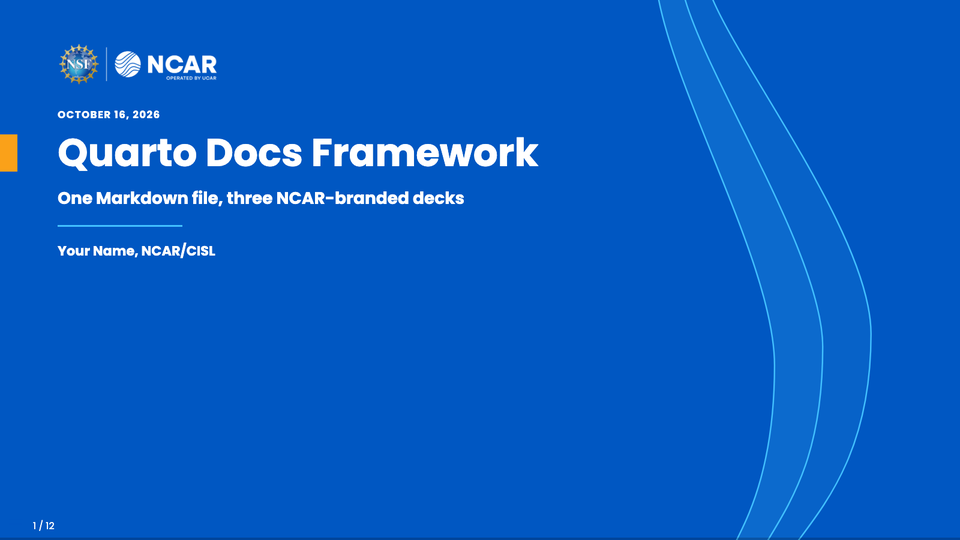
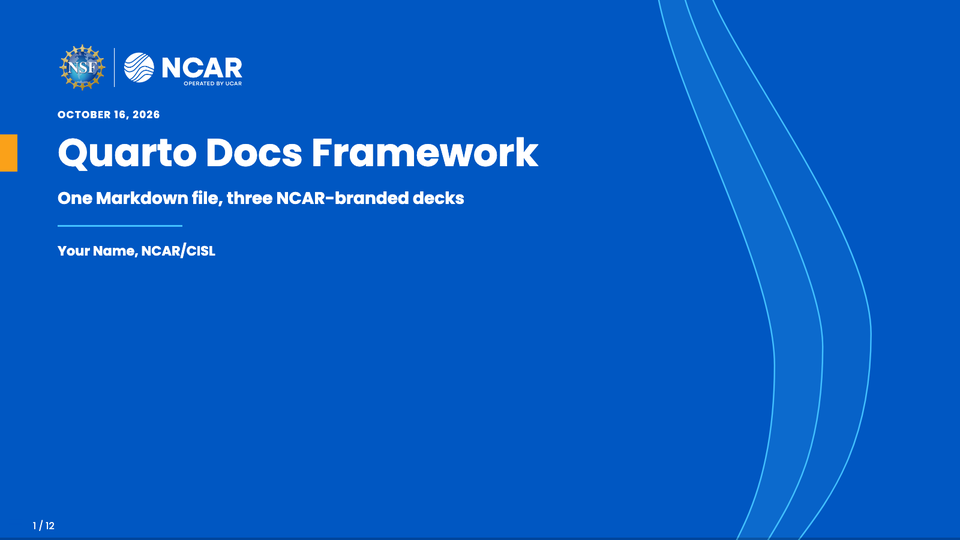
The vendored engine takes its geometry from the livery; so do the pptx scripts (#8)

Changed region(s): [[0.0625, 0.0889, 0.25, 0.1778]]

diff --git a/docs/common/_extensions/benkirk/engine/engine-revealjs.scss b/docs/common/_extensions/benkirk/engine/engine-revealjs.scss
@@ -77,14 +77,10 @@ $mermaid-label-fg-color: $ncar-blue;
 
 /*-- scss:rules --*/
 
-// slide geometry (beamerouterthemeEngine.sty: margins 0.06 W, tab 0.018 W,
-// logo 0.06 H tall at 0.055 H from the top)
-$engine-margin: 96px;
-$engine-tab: 29px;
-$engine-logo-top: 48px;
-// the logo's box (--engine-logo-w/h, --engine-logo-aspect) and the brand roles
-// (--engine-primary, -primary-text, -primary-contrast, -secondary, -accent, ...) are
-// :root custom properties in the livery's build/livery.css (engine-revealjs.lua attaches it)
+// slide geometry: the livery's fractions as slide pixels in its build/livery.css
+// (--engine-margin, -tab, -logo-top, -logo-h/-w/-aspect, -logo-title-h/-section-h/
+// -closing-h, -divider-top/-bottom, -full-pad/-floor/-caption), beside the brand
+// roles (--engine-primary, ...); engine-revealjs.lua attaches it
 
 // ---------------------------------------------------------------------------
 // every slide: a 1600x900 box with the brand margins
@@ -96,7 +92,7 @@ $engine-logo-top: 48px;
   height: 100%;
   box-sizing: border-box;
   isolation: isolate;  // keeps the z-index:-1 waves above the slide background in print
-  padding: 150px $engine-margin 70px;
+  padding: 150px var(--engine-margin) 70px;
 }
 
 // the logo: top right on content slides (NSF NCAR full color; the images
@@ -105,8 +101,8 @@ $engine-logo-top: 48px;
 .reveal .slides section.engine-title::after {
   content: "";
   position: absolute;
-  top: $engine-logo-top;
-  right: $engine-margin;
+  top: var(--engine-logo-top);
+  right: var(--engine-margin);
   width: var(--engine-logo-w);
   height: var(--engine-logo-h);
   background-repeat: no-repeat;
@@ -123,8 +119,8 @@ $engine-logo-top: 48px;
 .reveal .slides section.slide.level2 > h2 {
   position: absolute;
   top: 44px;
-  left: $engine-margin;
-  right: calc(#{$engine-margin + 40px} + var(--engine-logo-w));
+  left: var(--engine-margin);
+  right: calc(var(--engine-margin) + 40px + var(--engine-logo-w));
   min-height: 70px;
   margin: 0;
   display: flex;
@@ -135,10 +131,10 @@ $engine-logo-top: 48px;
   &::before {
     content: "";
     position: absolute;
-    left: -$engine-margin;
+    left: calc(-1 * var(--engine-margin));
     top: 0;
     bottom: 0;
-    width: $engine-tab;
+    width: var(--engine-tab);
     background: var(--engine-accent);
   }
 }
@@ -147,8 +143,8 @@ $engine-logo-top: 48px;
   content: "";
   position: absolute;
   top: 130px;
-  left: $engine-margin;
-  right: $engine-margin;
+  left: var(--engine-margin);
+  right: var(--engine-margin);
   height: 1px;
   background: var(--engine-rule);
 }
@@ -313,7 +309,7 @@ $engine-logo-top: 48px;
 // the body shrinks above them rather than running underneath.
 .reveal .slides section .engine-footnotes {
   position: absolute;
-  left: $engine-margin;
+  left: var(--engine-margin);
   bottom: 70px;
   max-width: 60%;
   padding-top: 0.55em;
@@ -373,8 +369,8 @@ $engine-logo-top: 48px;
 }
 div.reveal div.slides section.engine-title.quarto-title-block {
   text-align: left;
-  padding: 180px $engine-margin 60px;
-  &::after { left: $engine-margin; right: auto; top: 72px; height: 70px; width: calc(70px * var(--engine-logo-aspect)); background-position: left top; }
+  padding: 180px var(--engine-margin) 60px;
+  &::after { left: var(--engine-margin); right: auto; top: 72px; height: var(--engine-logo-title-h); width: calc(var(--engine-logo-title-h) * var(--engine-logo-aspect)); background-position: left top; }
   .engine-title-text { max-width: 58%; }
   &.engine-title-photo .engine-title-text { max-width: 44%; }
   .date {
@@ -393,10 +389,10 @@ div.reveal div.slides section.engine-title.quarto-title-block {
     &::before {
       content: "";
       position: absolute;
-      left: -$engine-margin;
+      left: calc(-1 * var(--engine-margin));
       top: 0.08em;
       bottom: 0.08em;
-      width: $engine-tab;
+      width: var(--engine-tab);
       background: var(--engine-accent);
     }
   }
@@ -416,7 +412,7 @@ div.reveal div.slides section.engine-title.quarto-title-block {
   .institute { margin: 0; font-size: 0.7em; }
   .engine-fineprint {
     position: absolute;
-    left: $engine-margin;
+    left: var(--engine-margin);
     bottom: 36px;
     max-width: 50%;
     font-size: 0.4em;
@@ -437,9 +433,9 @@ div.reveal div.slides section.engine-title.quarto-title-block {
   display: flex !important;
   flex-direction: column;
   justify-content: center;
-  padding: 120px $engine-margin 80px;
+  padding: var(--engine-divider-top) var(--engine-margin) var(--engine-divider-bottom);
   text-align: left;
-  &::after { left: $engine-margin; right: auto; top: 72px; background-position: left top; }
+  &::after { left: var(--engine-margin); right: auto; top: 72px; height: var(--engine-logo-section-h); width: calc(var(--engine-logo-section-h) * var(--engine-logo-aspect)); background-position: left top; }
   &[data-engine-section]::before {
     content: "Section " attr(data-engine-section);
     display: block;
@@ -461,10 +457,10 @@ div.reveal div.slides section.engine-title.quarto-title-block {
     &::before {
       content: "";
       position: absolute;
-      left: -$engine-margin;
+      left: calc(-1 * var(--engine-margin));
       top: 0.08em;
       bottom: 0.08em;
-      width: $engine-tab;
+      width: var(--engine-tab);
       background: var(--engine-accent);
     }
   }
@@ -485,8 +481,8 @@ div.reveal div.slides section.engine-title.quarto-title-block {
   display: flex !important;
   flex-direction: column;
   justify-content: center;
-  padding: 150px $engine-margin 80px;
-  &::after { left: $engine-margin; right: auto; top: 81px; background-position: left top; }
+  padding: 150px var(--engine-margin) 80px;
+  &::after { left: var(--engine-margin); right: auto; top: 81px; height: var(--engine-logo-closing-h); width: calc(var(--engine-logo-closing-h) * var(--engine-logo-aspect)); background-position: left top; }
   > h2 {
     position: relative;
     top: auto; left: auto; right: auto;
@@ -515,7 +511,7 @@ div.reveal div.slides section.engine-title.quarto-title-block {
   right: 0;
   box-sizing: border-box;
   min-height: 180px;
-  padding: 0 $engine-margin;
+  padding: 0 var(--engine-margin);
   background: var(--engine-overlay);
   color: #fff;
   &::before { content: none; }
@@ -570,8 +566,6 @@ html.engine-title-light .reveal .slides section.slide.level2.closing {
 // ---------------------------------------------------------------------------
 // Absolutely placed, so reveal's inline display and the print padding cannot
 // move it; the title stays in the page (navigation, tools), clipped to nothing.
-$engine-full-pad: 40px;
-$engine-full-caption: 56px;
 .reveal .slides section.slide.level2.full {
   &::before, &::after { content: none; }  // no rule, no logo
   > h2 {
@@ -588,13 +582,13 @@ $engine-full-caption: 56px;
 }
 .reveal .slides section.slide.full .engine-full-figure {
   position: absolute;
-  inset: $engine-full-pad $engine-full-pad ($engine-full-pad + 8px);
+  inset: var(--engine-full-pad) var(--engine-full-pad) calc(var(--engine-full-pad) + 8px);
   display: flex;
   align-items: center;
   justify-content: center;
 }
 .reveal .slides section.slide.full.engine-captioned .engine-full-figure {
-  bottom: $engine-full-pad + $engine-full-caption;
+  bottom: calc(var(--engine-full-pad) + var(--engine-full-caption));
 }
 // every wrapper Quarto puts round a figure hands the box down to it; the
 // empty paragraphs it leaves beside one would take a share of the width
@@ -619,10 +613,10 @@ $engine-full-caption: 56px;
 }
 .reveal .slides section.slide.full .engine-full-caption {
   position: absolute;
-  left: $engine-full-pad;
-  right: $engine-full-pad;
-  bottom: $engine-full-pad;
-  height: $engine-full-caption;
+  left: var(--engine-full-pad);
+  right: var(--engine-full-pad);
+  bottom: var(--engine-full-pad);
+  height: var(--engine-full-caption);
   display: flex;
   flex-direction: column;
   justify-content: center;
@@ -661,10 +655,10 @@ $engine-full-caption: 56px;
 // reveal's print stylesheet zeroes every section's padding (!important);
 // restate each slide type's (more specific, so these win)
 html.reveal-print .reveal .slides {
-  section.slide, section.engine-title { padding: 150px $engine-margin 70px !important; }
-  section.engine-title.quarto-title-block { padding: 180px $engine-margin 60px !important; }
-  section.slide.engine-section { padding: 120px $engine-margin 80px !important; }
-  section.slide.level2.closing { padding: 150px $engine-margin 80px !important; }
+  section.slide, section.engine-title { padding: 150px var(--engine-margin) 70px !important; }
+  section.engine-title.quarto-title-block { padding: 180px var(--engine-margin) 60px !important; }
+  section.slide.engine-section { padding: var(--engine-divider-top) var(--engine-margin) var(--engine-divider-bottom) !important; }
+  section.slide.level2.closing { padding: 150px var(--engine-margin) 80px !important; }
   section.slide.level2.feature { padding-top: 230px !important; }
   // full-height slides: no vertical centering offset
   section.slide, section.engine-title { top: 0 !important; }

diff --git a/docs/common/_extensions/benkirk/engine/liveries/ucar/build/livery.css b/docs/common/_extensions/benkirk/engine/liveries/ucar/build/livery.css
@@ -27,6 +27,17 @@
   --engine-logo-h: 46.4px;
   --engine-logo-w: 182.3px;
   --engine-logo-aspect: 3.928;
+  --engine-logo-top: 48px;
+  --engine-logo-title-h: 81px;
+  --engine-logo-section-h: 72px;
+  --engine-logo-closing-h: 90px;
+  --engine-margin: 96px;
+  --engine-tab: 28.8px;
+  --engine-divider-top: 120px;
+  --engine-divider-bottom: 80px;
+  --engine-full-pad: 40px;
+  --engine-full-floor: 67.5px;
+  --engine-full-caption: 54px;
   --engine-divider-label: #011837;
   --engine-font-family: "Poppins";
   --engine-overlay: color-mix(in srgb, var(--engine-dark) 72%, transparent);

diff --git a/docs/common/_extensions/benkirk/engine/liveries/ucp/build/livery.css b/docs/common/_extensions/benkirk/engine/liveries/ucp/build/livery.css
@@ -27,6 +27,17 @@
   --engine-logo-h: 58px;
   --engine-logo-w: 159.3px;
   --engine-logo-aspect: 2.746;
+  --engine-logo-top: 48px;
+  --engine-logo-title-h: 81px;
+  --engine-logo-section-h: 72px;
+  --engine-logo-closing-h: 90px;
+  --engine-margin: 96px;
+  --engine-tab: 28.8px;
+  --engine-divider-top: 120px;
+  --engine-divider-bottom: 80px;
+  --engine-full-pad: 40px;
+  --engine-full-floor: 67.5px;
+  --engine-full-caption: 54px;
   --engine-divider-label: #011837;
   --engine-font-family: "Poppins";
   --engine-overlay: color-mix(in srgb, var(--engine-dark) 72%, transparent);

diff --git a/docs/common/_extensions/benkirk/engine/liveries/ncar/build/livery.css b/docs/common/_extensions/benkirk/engine/liveries/ncar/build/livery.css
@@ -27,6 +27,17 @@
   --engine-logo-h: 58px;
   --engine-logo-w: 228.2px;
   --engine-logo-aspect: 3.934;
+  --engine-logo-top: 48px;
+  --engine-logo-title-h: 81px;
+  --engine-logo-section-h: 72px;
+  --engine-logo-closing-h: 90px;
+  --engine-margin: 96px;
+  --engine-tab: 28.8px;
+  --engine-divider-top: 120px;
+  --engine-divider-bottom: 80px;
+  --engine-full-pad: 40px;
+  --engine-full-floor: 67.5px;
+  --engine-full-caption: 54px;
   --engine-font-family: "Poppins";
   --engine-overlay: color-mix(in srgb, var(--engine-dark) 72%, transparent);
 }

diff --git a/docs/common/_extensions/benkirk/engine/liveries/ncarucar/build/livery.css b/docs/common/_extensions/benkirk/engine/liveries/ncarucar/build/livery.css
@@ -27,6 +27,17 @@
   --engine-logo-h: 58px;
   --engine-logo-w: 228.2px;
   --engine-logo-aspect: 3.934;
+  --engine-logo-top: 48px;
+  --engine-logo-title-h: 81px;
+  --engine-logo-section-h: 72px;
+  --engine-logo-closing-h: 90px;
+  --engine-margin: 96px;
+  --engine-tab: 28.8px;
+  --engine-divider-top: 120px;
+  --engine-divider-bottom: 80px;
+  --engine-full-pad: 40px;
+  --engine-full-floor: 67.5px;
+  --engine-full-caption: 54px;
   --engine-font-family: "Poppins";
   --engine-overlay: color-mix(in srgb, var(--engine-dark) 72%, transparent);
 }

diff --git a/docs/common/_extensions/benkirk/engine/livery_build.py b/docs/common/_extensions/benkirk/engine/livery_build.py
@@ -197,14 +197,25 @@ def emit_css(livery: dict) -> str:
                  f'src: url("{Path(f["path"]).name}") format("truetype"); }}')
     props = [f"--engine-{k}: {v};" for k, v in livery["roles"].items()]
     props += [f"--engine-{k}: {v};" for k, v in livery["derived"].items()]
-    logo = livery.get("geometry", {}).get("logo", {})
+    geom = livery.get("geometry", {})
+    logo = geom.get("logo", {})
+    px = lambda frac, axis=H: f"{round(frac * axis, 1):g}px"
     if "height" in logo:
-        h = round(logo["height"] * H, 1)   # 0.0644 * 900 is the scss's 58px
-        props.append(f"--engine-logo-h: {h:g}px;")
+        props.append(f"--engine-logo-h: {px(logo['height'])};")   # 0.0644 * 900 is the scss's 58px
         if "aspect" in logo:
-            props.append(f"--engine-logo-w: {h * logo['aspect']:.1f}px;")
+            props.append(f"--engine-logo-w: {round(logo['height'] * H, 1) * logo['aspect']:.1f}px;")
     if "aspect" in logo:
         props.append(f"--engine-logo-aspect: {logo['aspect']};")
+    for k in ("top", "title", "section", "closing"):   # the logo's top, and its height per slide kind
+        if k in logo:
+            props.append(f"--engine-logo-{k}{'' if k == 'top' else '-h'}: {px(logo[k])};")
+    for k in ("margin", "tab"):
+        if k in geom:
+            props.append(f"--engine-{k}: {px(geom[k], W)};")
+    for k, v in geom.get("divider", {}).items():
+        props.append(f"--engine-divider-{k}: {px(v)};")
+    for k, v in geom.get("full", {}).items():
+        props.append(f"--engine-full-{k}: {px(v, W if k == 'pad' else H)};")
     if "label-color" in livery.get("divider", {}):
         props.append(f"--engine-divider-label: {livery['divider']['label-color']};")
     props.append(f'--engine-font-family: "{family}";')

diff --git a/docs/common/utils/slide_layout.py b/docs/common/utils/slide_layout.py
@@ -31,9 +31,9 @@ NOT_BODY  = {PP_PLACEHOLDER.TITLE, PP_PLACEHOLDER.CENTER_TITLE, PP_PLACEHOLDER.D
              PP_PLACEHOLDER.FOOTER, PP_PLACEHOLDER.SLIDE_NUMBER}
 LINE      = 1.2           # line height / font size, for the table estimate
 CELL_PAD  = Pt(7.2)       # a cell's default top + bottom margins (0.05 in each)
-FULL_PAD   = 0.025        # full: margin round the figure, a fraction of the width
-FULL_FLOOR = 0.075        # full: the footline (slide number), a fraction of the height
-FULL_CAP   = 0.06         # full: the caption line, a fraction of the height
+FULL_PAD   = LIVERY["geometry"]["full"]["pad"]       # full: margin round the figure (of the width),
+FULL_FLOOR = LIVERY["geometry"]["full"]["floor"]     # the footline (slide number) and the caption
+FULL_CAP   = LIVERY["geometry"]["full"]["caption"]   # line (of the height), as the themes draw them
 CAP_SIZE   = Pt(13)       # style_footnotes.py's size and color: the livery's muted text
 CAP_COLOR  = RGBColor.from_string(livery_mod.color(LIVERY, "muted"))
 CAUTION_FILL = RGBColor.from_string(livery_mod.derived(LIVERY, "caution-fill"))  # warning at 18% on white

diff --git a/docs/common/utils/section_subtitle.py b/docs/common/utils/section_subtitle.py
@@ -38,9 +38,11 @@ CHROME_PH = {"dt", "ftr", "sldNum"}  # date, footer, slide number — ignore
 # Divider geometry in the revealjs theme's 1600x900 px (1 px = 7620 EMU, and
 # 1 px of type = 0.6 pt), from its section-slide rules (engine-revealjs.scss).
 LIVERY = livery_mod.load()
+GEOM = LIVERY["geometry"]
 PX = 7620
-BLOCK_TOP, BLOCK_BOTTOM = 120, 820         # padding: 120px ... 80px
-TAB_W = round(LIVERY["geometry"]["tab"] * 1600)   # the divider's tab, geometry.tab of the width
+BLOCK_TOP = round(GEOM["divider"]["top"] * 900)          # the divider block's band: padding
+BLOCK_BOTTOM = 900 - round(GEOM["divider"]["bottom"] * 900)   # above and below (120 ... 820 px)
+TAB_W = round(GEOM["tab"] * 1600)           # the divider's tab, geometry.tab of the width
 TAB = LIVERY["divider"].get("tab", True)
 LABEL = LIVERY["divider"]["label"]          # "Section"; cap="all" sets it in capitals
 LABEL_PT, LABEL_GAP = 12, 10                # 0.7em, margin-bottom 0.5em

diff --git a/docs/design/engine-and-liveries.md b/docs/design/engine-and-liveries.md
@@ -342,6 +342,20 @@ decoding; the customer supplies the TTFs), and vectorizing bitmap art.
 
 Newest first. The first unchecked item of section 7 is the next step.
 
+- **2026-10-16** Phase 2, step 4 (beamer-livery-theme PR #6, this repo PR #8): geometry from
+  the livery. The `geometry` block (fractions of the slide) carries the margin, the tab, the
+  logo's height per slide kind, top and aspect, the divider block's padding and the
+  full-figure lengths; `livery_build.py` emits `engine@geom@*` and `--engine-*` pixels; the
+  beamer themes, the Sass, `section_subtitle.py` and `slide_layout.py` read them. The ncar
+  values are the themes' own, unified where HTML and PDF disagreed (content logo 0.0644, the
+  HTML's; title, section and closing logos 0.09, 0.08, 0.10, beamer's), so the PDF content
+  logo grew 7% and the HTML brand-field logos grew. Decided with Ben: the pptx template's
+  tighter geometry (3% margin, an oversized logo) is NOT the source of truth; he tuned it by
+  hand for figure room and wants it toned down. The brand's official pptx templates for all
+  four lockups (UCAR Communications, April 2026) sit in a Drive folder (see the memory
+  notes); they are the reference decks for section 6 and the yardstick for loosening the
+  ncar template. The slide paddings and title rule of the two formats remain engine
+  constants (each format's own). Next: step 5, the waves as art files, closing Phase 2.
 - **2026-10-16** Phase 2, step 3 (beamer-livery-theme PR #5, this repo PR #7): roles only.
   No palette name is read outside `build/livery.sty`: the color, inner and outer themes, the
   check marks and listings style, Quarto's callouts and the Sass all read roles, with a new
